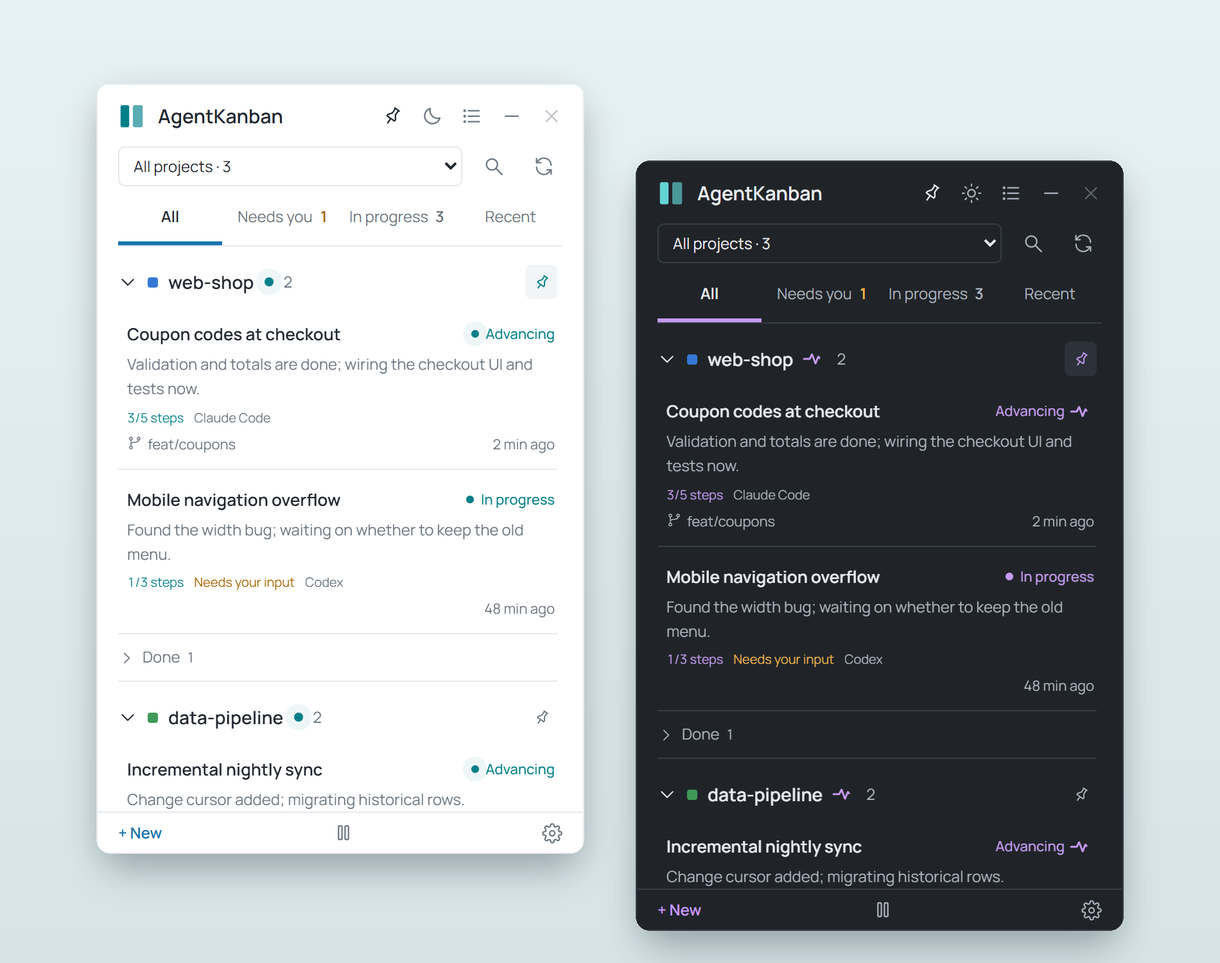
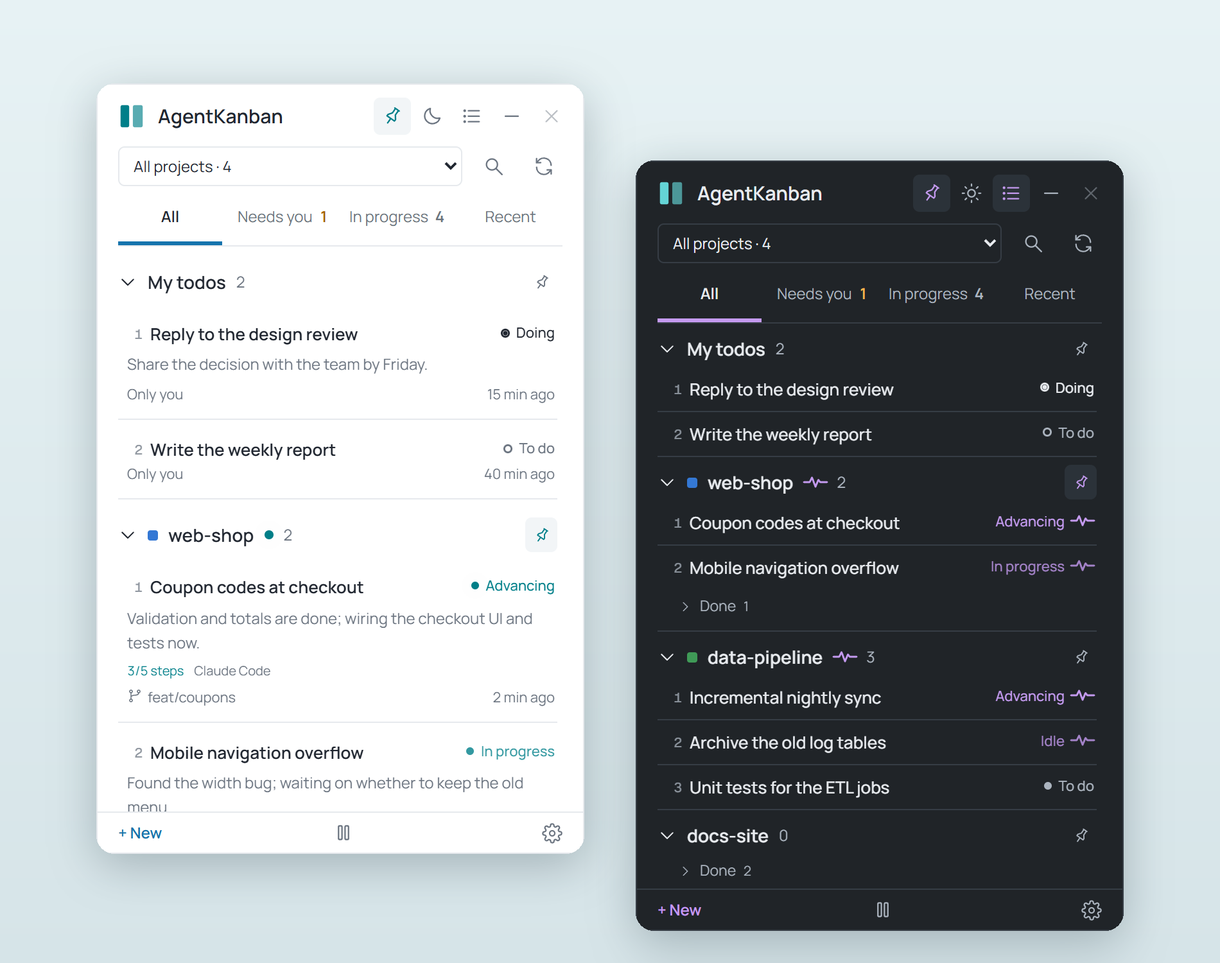
fix: guide, blocked projects and update checks; release 0.7.0
- Blocked projects stay on the board for the user's own personal todos.
- The Agent guide only counts real Agent tasks, fits above an empty board,
  keeps itself after a failed try, and leaves configs it cannot merge to
  manual setup; connect all skips those too.
- The personal group matches search by its shown name.
- update.ps1 waits for locked executables and checks the board executable
  was replaced.
- Bump to 0.7.0, rewrite the release notes and refresh the README images.

diff --git a/src/App.tsx b/src/App.tsx
@@ -83,7 +83,7 @@ function ProjectMenu({ project, color, x, y, onColor, onRename, onArchive, onBlo
       <div className="menu-swatches" role="group" aria-label={t("项目颜色")}>{PROJECT_COLORS.map(value => <button key={value} role="menuitemradio" aria-checked={color === value} aria-label={t(`颜色：${value}`)} className={`swatch label-${value}`} onClick={() => onColor(value)} />)}<button role="menuitemradio" aria-checked={!color} aria-label={t("无颜色")} title={t("无颜色")} className="swatch swatch-none" onClick={() => onColor(null)} /></div>
       {!project.personal && <button role="menuitem" title={t("只改看板上的显示名，不影响 Agent 找到这个项目")} onClick={() => setRenaming(true)}>{t("重命名")}</button>}
       <button role="menuitem" title={t("该项目的任务移到归档，可在归档中心逐条恢复")} onClick={onArchive}>{t("归档项目")}</button>
-      {!project.personal && <button role="menuitem" title={t("之后在该项目中工作的 Agent 不再记录到看板；可在设置 → Agent 接入中取消")} onClick={onBlock}>{t("屏蔽项目")}</button>}
+      {!project.personal && !project.blocked && <button role="menuitem" title={t("之后在该项目中工作的 Agent 不再记录到看板；可在设置 → Agent 接入中取消")} onClick={onBlock}>{t("屏蔽项目")}</button>}
     </>}
   </FloatingMenu>;
 }
@@ -157,7 +157,7 @@ function ProjectSection({ project, preferences, searching, update, now, busy, on
   const waitingIds = useMemo(() => new Set(project.tasks.filter(task => !isTutorialTask(project, task) && isWaiting(task, preferences.stale_after_hours, now)).map(task => task.id)), [project, preferences.stale_after_hours, now]);
   const color = preferences.project_colors[String(project.id)];
   const name = projectLabel(project);
-  const place = project.personal ? t("仅自己可见，Agent 看不到") : project.path;
+  const place = project.personal ? t("仅自己可见，Agent 看不到") : project.blocked ? t("{0}\n已屏蔽 Agent 记录，这里只显示你的个人待办；可在设置 → Agent 接入中取消屏蔽", project.path) : project.path;
   const showArchive = native && project.archived_count > 0;
   const heading = <><Icon name="chevron" className={!collapsed ? 'rotated' : ''} />{color && <span className={`project-color label-${color}`} aria-hidden="true" />}<h2>{name}</h2>{advancingIds.size > 0 && <span className="project-activity status in_progress advancing" title={t("{0} 个任务正在推进", advancingIds.size)}><span className="status-dot" /><ActivityMark /></span>}<span className="project-count">{rows.length}</span></>;
   return <section className={`project ${project.personal ? 'project-personal' : ''}`} aria-label={name}>
@@ -251,7 +251,7 @@ export function App() {
   const openCapture = useCallback(() => {
     if (taskActionBusy.current) return;
     const prefs = preferencesRef.current;
-    const projects = snapshotRef.current.projects.filter(project => !isTutorialProject(project) && !project.personal);
+    const projects = snapshotRef.current.projects.filter(project => !isTutorialProject(project) && !project.personal && !project.blocked);
     const focused = projects.find(project => project.id === prefs.focused_project);
     setCaptureDraft(draft => draft ?? { project_path: focused?.path ?? (projects.length === 1 ? projects[0].path : ''), task_key: `capture:${crypto.randomUUID()}`, title: '', request: '', personal: false, later: false });
     setSelectedTaskId(null); setSettingsOpen(false); setCaptureOpen(true);
@@ -543,7 +543,7 @@ export function App() {
   const searchQuery = searchText.trim().toLowerCase();
   const searching = searchQuery !== '' && !preferences.compact;
   // Shown until an Agent client is set up or the board has real Agent work; the tutorial and personal todos do not count.
-  const hasAgentWork = snapshot.projects.some(project => !project.personal && !isTutorialProject(project));
+  const hasAgentWork = snapshot.projects.some(project => project.tasks.some(task => !task.personal && !isTutorialTask(project, task)));
   const showGuide = native && ready && !searching && !preferences.agent_guide_dismissed && clients !== null
     && (guideHeld || (!clients.some(client => client.mcp === 'ok') && !hasAgentWork));
   const recent = preferences.filter === 'recent';

diff --git a/src/AgentGuide.tsx b/src/AgentGuide.tsx
@@ -1,7 +1,7 @@
 import { useState } from 'react';
 import { t } from './i18n';
 import { Icon } from './Icon';
-import { connectAll, connectAllMessage, pendingClients, type ConnectAllResult } from './Panels';
+import { connectAll, connectedMessage, firstProblem, manualClients, pendingClients, problemMessage, type ConnectAllResult } from './Panels';
 import type { ClientStatus } from './types';
 
 /** First-run card on the board: connects the detected Agent clients or leads to Settings. */
@@ -30,7 +30,11 @@ export function AgentGuide({ clients, onClients, onConnected, onOpenSettings, on
     } finally { setWorking(false); }
   }
 
-  const failed = result?.failed ?? [];
+  // Before connecting, clients whose config needs manual merging count as problems too.
+  const problems = result ?? { failed: [], manual: manualClients(clients) };
+  const problem = firstProblem(problems);
+  // Nothing connected yet: "got it" only clears the message; the card stays for another try.
+  const acknowledge = () => result && result.done.length === 0 ? setResult(null) : onDismiss();
   return <section className="agent-guide" aria-labelledby="agent-guide-title">
     <div className="agent-guide-head">
       <Icon name="logo" />
@@ -38,22 +42,24 @@ export function AgentGuide({ clients, onClients, onConnected, onOpenSettings, on
       <button className="icon-button agent-guide-close" aria-label={t("关闭引导")} title={t("不再显示；之后可在设置 → Agent 接入中接入")} onClick={onDismiss}><Icon name="close" /></button>
     </div>
     {result ? <>
-      {result.done.length > 0 && <p role="status" className="agent-guide-done">{connectAllMessage({ done: result.done, failed: [] })} {t("之后 Agent 开工时，任务会自动出现在这里。")}</p>}
-      {failed.length > 0 && <p role="alert" className="panel-error">{connectAllMessage({ done: [], failed })}</p>}
+      {result.done.length > 0 && <p role="status" className="agent-guide-done">{connectedMessage(result.done)} {t("之后 Agent 开工时，任务会自动出现在这里。")}</p>}
+      {problem && <p role="alert" className="panel-error">{problemMessage(result)}</p>}
     </> : <>
       <p>{t("接入后，Agent 做会改文件的任务时，会自动把目标、步骤和进度记到看板。")}</p>
       {detected.length > 0
         ? <div className="agent-guide-clients" aria-label={t("已检测到的客户端")}><span>{t("已检测到")}</span>{detected.map(client => <span key={client.id} className="agent-guide-chip">{client.name}</span>)}</div>
         : <p>{t("还没检测到支持的客户端。安装 Codex、Claude Code 等之后回到这里，或在设置中手动配置。")}</p>}
+      {pending.length === 0 && problem && <p className="panel-error">{problemMessage(problems)}</p>}
     </>}
     <div className="agent-guide-actions">
       {result ? <>
-        <button className={failed.length ? 'text-button' : 'agent-guide-primary'} onClick={onDismiss}>{t("知道了")}</button>
-        {failed.length > 0 && <button className="agent-guide-primary" onClick={() => onOpenSettings(failed[0].client.id)}>{t("去设置手动配置")}</button>}
-      </> : <>
-        {pending.length > 0 && <button className="agent-guide-primary" disabled={working} onClick={() => void connect()}>{working ? t("正在接入…") : t("一键接入全部")}</button>}
-        {detected.length === 0 && <button className="text-button" onClick={() => onOpenSettings()}>{t("打开接入设置")}</button>}
-      </>}
+        <button className={problem ? 'text-button' : 'agent-guide-primary'} onClick={acknowledge}>{t("知道了")}</button>
+        {problem && <button className="agent-guide-primary" onClick={() => onOpenSettings(problem)}>{t("去设置手动配置")}</button>}
+      </> : pending.length > 0
+        ? <button className="agent-guide-primary" disabled={working} onClick={() => void connect()}>{working ? t("正在接入…") : t("一键接入全部")}</button>
+        : problem
+          ? <button className="agent-guide-primary" onClick={() => onOpenSettings(problem)}>{t("去设置手动配置")}</button>
+          : <button className="text-button" onClick={() => onOpenSettings()}>{t("打开接入设置")}</button>}
     </div>
   </section>;
 }

diff --git a/src/Panels.tsx b/src/Panels.tsx
@@ -80,22 +80,27 @@ export function CopyButton({ text, label = t("复制"), copied = t("已复制"),
 }
 
 export const connected = (client: ClientStatus) => client.mcp === 'ok' && client.rules !== false;
-/** Installed clients that one click would still change. */
-export const pendingClients = (clients: ClientStatus[]) => clients.filter(client => client.detected && !connected(client));
-export interface ConnectAllResult { done: ClientStatus[]; failed: { client: ClientStatus; error: string }[] }
+/** Installed clients that one click would still change. A config the setup cannot parse needs manual merging. */
+export const pendingClients = (clients: ClientStatus[]) => clients.filter(client => client.detected && !connected(client) && client.mcp !== 'unreadable');
+export const manualClients = (clients: ClientStatus[]) => clients.filter(client => client.detected && client.mcp === 'unreadable');
+export interface ConnectAllResult { done: ClientStatus[]; failed: { client: ClientStatus; error: string }[]; manual: ClientStatus[] }
 /** One client after another, so a failure never leaves the others half-written. */
 export async function connectAll(clients: ClientStatus[]): Promise<ConnectAllResult> {
-  const result: ConnectAllResult = { done: [], failed: [] };
+  const result: ConnectAllResult = { done: [], failed: [], manual: manualClients(clients) };
   for (const client of pendingClients(clients)) {
     try { result.done.push(await setupClient(client.id)); }
     catch (e) { result.failed.push({ client, error: String(e) }); }
   }
   return result;
 }
-export const connectAllMessage = ({ done, failed }: ConnectAllResult) => [
-  done.length ? t("已接入 {0}，重启这些客户端后生效。", done.map(client => client.name).join(t("、"))) : '',
+export const connectedMessage = (done: ClientStatus[]) => t("已接入 {0}，重启这些客户端后生效。", done.map(client => client.name).join(t("、")));
+/** Failures and skipped clients: both still need the manual snippet in Settings. */
+export const problemMessage = ({ failed, manual }: Pick<ConnectAllResult, 'failed' | 'manual'>) => [
   ...failed.map(({ client, error }) => t("{0} 接入失败：{1}", client.name, error)),
+  manual.length ? t("{0} 的配置无法自动合并，需在设置中手动配置。", manual.map(client => client.name).join(t("、"))) : '',
 ].filter(Boolean).join(' ');
+/** The client whose manual snippet Settings should open first. */
+export const firstProblem = ({ failed, manual }: Pick<ConnectAllResult, 'failed' | 'manual'>) => failed[0]?.client.id ?? manual[0]?.id;
 const clientState = (client: ClientStatus) => connected(client) ? t("已配置")
   : client.mcp === 'outdated' ? t("配置待更新")
   : client.mcp === 'unreadable' ? t("配置无法解析")
@@ -186,9 +191,9 @@ export function Settings({ preferences, busy, disabled, saveError, initialTab = 
       const result = await connectAll(clients);
       const updated = new Map(result.done.map(client => [client.id, client]));
       setClients(list => list.map(item => updated.get(item.id) ?? item));
-      if (result.done.length) setSetupDone(connectAllMessage({ done: result.done, failed: [] }));
-      if (result.failed.length) setSetupResult({ ok: false, text: connectAllMessage({ done: [], failed: result.failed }) });
-      if (result.failed.length) setManualId(result.failed[0].client.id);
+      if (result.done.length) setSetupDone(connectedMessage(result.done));
+      const problem = firstProblem(result);
+      if (problem) { setSetupResult({ ok: false, text: problemMessage(result) }); setManualId(problem); }
     } finally { setSettingUp(''); }
   }
   async function runBackup() {

diff --git a/src/demo.ts b/src/demo.ts
@@ -1,5 +1,5 @@
 // Browser-only sample board for screenshots and docs: open the preview with ?demo
-// (optional &theme=dark&lang=en&accent=purple&activity=wave). The desktop app never uses it.
+// (optional &theme=dark&lang=en&accent=purple&activity=wave&concise). The desktop app never uses it.
 import { defaults, type Preferences, type Snapshot, type Task } from './types';
 
 const params = new URLSearchParams(location.search);
@@ -23,6 +23,11 @@ const steps = (done: number, total: number) => Array.from({ length: total }, (_,
 export const demoSnapshot: Snapshot = {
   revision: 1,
   projects: [
+    { id: 4, name: '我的待办', path: '', archived_count: 0, personal: true, tasks: [
+      task(4, { title: text('回复设计评审意见', 'Reply to the design review'), status: 'in_progress', personal: true, agent_updated_at: null, updated_at: ago(15),
+        request: text('周五前把结论同步给团队。', 'Share the decision with the team by Friday.') }),
+      task(4, { title: text('整理本周周报', 'Write the weekly report'), status: 'todo', personal: true, agent_updated_at: null, updated_at: ago(40) }),
+    ] },
     { id: 1, name: 'web-shop', path: 'D:\\code\\web-shop', archived_count: 3, tasks: [
       task(1, { title: text('结账页支持优惠码', 'Coupon codes at checkout'), status: 'in_progress', agent: 'Claude Code', agent_updated_at: ago(2), branch: 'feat/coupons', steps: steps(3, 5),
         progress: text('优惠码校验与金额计算已完成，正在补结账页交互和测试。', 'Validation and totals are done; wiring the checkout UI and tests now.') }),
@@ -35,6 +40,8 @@ export const demoSnapshot: Snapshot = {
     { id: 2, name: 'data-pipeline', path: 'D:\\code\\data-pipeline', archived_count: 0, tasks: [
       task(2, { title: text('夜间同步改为增量', 'Incremental nightly sync'), status: 'in_progress', agent: 'Codex', agent_updated_at: ago(6), steps: steps(1, 4),
         progress: text('已加变更游标，正在迁移历史数据。', 'Change cursor added; migrating historical rows.') }),
+      task(2, { title: text('旧日志表归档', 'Archive the old log tables'), status: 'in_progress', agent: 'Claude Code', agent_updated_at: ago(60 * 30), steps: steps(2, 3),
+        progress: text('已导出 2023 年以前的数据，删除旧表前停在确认一步。', 'Rows before 2023 are exported; stopped before dropping the old tables.') }),
       task(2, { title: text('补齐 ETL 单元测试', 'Unit tests for the ETL jobs'), status: 'todo', agent_updated_at: null, updated_at: ago(30),
         progress: text('等待 Agent 接手', 'Waiting for an Agent') }),
     ] },
@@ -53,6 +60,7 @@ export function demoPreferences(): Preferences {
     ...defaults,
     theme: theme === 'dark' || theme === 'light' ? theme : 'light',
     language: english ? 'en' : 'zh',
+    concise: params.has('concise'),
     accent: (accent ?? 'teal') as Preferences['accent'],
     activity_style: (activity ?? 'pulse') as Preferences['activity_style'],
     project_colors: { 1: 'blue', 2: 'green' },

diff --git a/src/display.ts b/src/display.ts
@@ -42,7 +42,7 @@ export const needsAttention = (task: Task) => task.status === 'blocked' || (task
 export const matchesFilter = (task: Task, filter: Filter) => filter === 'all' || filter === 'recent' || (filter === 'attention' ? needsAttention(task) : task.status === filter);
 // Filters saved by v0.3 and earlier: blocked/review now live under attention, todo under all.
 export const normalizeFilter = (value: string): Filter => value === 'blocked' || value === 'review' || value === 'attention' ? 'attention' : value === 'in_progress' || value === 'recent' ? value : 'all';
-export const matchesSearch = (project: Project, task: Task, query: string) => !query || [task.title, project.name, project.path, task.task_key, task.goal, task.request, task.progress, task.user_note].some(value => value.toLowerCase().includes(query));
+export const matchesSearch = (project: Project, task: Task, query: string) => !query || [task.title, project.name, projectLabel(project), project.path, task.task_key, task.goal, task.request, task.progress, task.user_note].some(value => value.toLowerCase().includes(query));
 export const changedAt = (task: Task) => Date.parse(task.updated_at) || 0;
 export const stepProgress = (task: Task) => task.steps.length ? `${task.steps.filter(step => step.status === 'done').length}/${task.steps.length}` : '';
 export const reviewLabels = { none: '', pending: '未验收', accepted: '已验收', changes_requested: '需修改' };

diff --git a/src/types.ts b/src/types.ts
@@ -25,7 +25,9 @@ export interface ArchiveQuery { query?: string; project_id?: number; limit?: num
 export interface ArchivePage { items: ArchivedTask[]; next_offset: number | null }
 export interface BlockedProject { id: number; name: string; path: string }
 /** `personal` marks the built-in group for personal todos without a folder. */
-export interface Project { id: number; name: string; path: string; tasks: Task[]; archived_count: number; personal?: boolean }
+export interface Project { id: number; name: string; path: string; tasks: Task[]; archived_count: number; personal?: boolean;
+  /** Blocked for Agents; on the board only for the user's personal todos in it. */
+  blocked?: boolean }
 export const isTutorialTask = (project: Pick<Project, 'name'>, task: Pick<Task, 'agent' | 'task_key'>) => project.name === '新手教程'
   && task.agent === '教学示例'
   && (task.task_key === 'tutorial:follow-progress' || task.task_key === 'tutorial:review-delivery');

diff --git a/src/styles.css b/src/styles.css
@@ -346,6 +346,8 @@ details summary { font-size: 11px; color: var(--muted); cursor: pointer; padding
 .agent-guide p { margin: 6px 0 0; color: var(--muted); font-size: 12px; line-height: 1.7; }
 .agent-guide .agent-guide-done { color: var(--green); }
 .agent-guide .panel-error { color: var(--amber); }
+/* With the card above it, the empty board message sits right below instead of filling a whole screen. */
+.agent-guide ~ .empty { min-height: 0; padding-top: 28px; }
 .agent-guide-clients { display: flex; flex-wrap: wrap; align-items: center; gap: 6px; margin-top: 9px; color: var(--muted); font-size: 11px; }
 .agent-guide-chip { padding: 1px 8px; border: 1px solid var(--line); border-radius: 999px; background: var(--surface); color: var(--text); font-weight: 600; line-height: 18px; }
 .agent-guide-actions { display: flex; align-items: center; justify-content: flex-end; gap: 14px; margin-top: 11px; }

diff --git a/src/i18n.ts b/src/i18n.ts
@@ -529,6 +529,8 @@ const en: Record<string, string> = {
   '打开接入设置': 'Open Agent settings',
   '已接入 {0}，重启这些客户端后生效。': 'Connected {0}. Restart these clients to load it.',
   '{0} 接入失败：{1}': '{0} failed: {1}',
+  '{0} 的配置无法自动合并，需在设置中手动配置。': 'The {0} config cannot be merged automatically; set it up by hand in Settings.',
+  '{0}\n已屏蔽 Agent 记录，这里只显示你的个人待办；可在设置 → Agent 接入中取消屏蔽': '{0}\nBlocked for Agents: only your personal todos show here. Unblock it in Settings → Agents',
   '接入本机已检测到、尚未配置好的客户端：{0}': 'Connect the detected clients not yet set up: {0}',
   '接入全部（{0}）': 'Connect all ({0})',
   '、': ', ',

diff --git a/crates/kanban-core/src/lib.rs b/crates/kanban-core/src/lib.rs
@@ -192,6 +192,9 @@ pub struct ProjectBoard {
     /// The built-in group for personal todos that belong to no directory.
     #[serde(default)]
     pub personal: bool,
+    /// Blocked for Agents. It stays on the board only for the user's personal todos.
+    #[serde(default)]
+    pub blocked: bool,
 }
 
 #[derive(Debug, Clone, Serialize, Deserialize)]
@@ -646,14 +649,18 @@ impl Database {
         )?;
         let mut projects = Vec::new();
         {
+            // Blocking hides a project's Agent work, never the user's own todos in it.
             let mut statement = tx.prepare(
-                "SELECT id,name,path,
-                   (SELECT COUNT(*) FROM tasks a WHERE a.project_id=p.id AND a.archived=1),
-                   identity=?1
+                "WITH blocked(identity) AS (SELECT value FROM json_each(
+                   COALESCE((SELECT value FROM settings WHERE key='blocked_projects'),'[]')))
+                 SELECT id,name,path,
+                   CASE WHEN p.identity IN (SELECT identity FROM blocked) THEN 0
+                     ELSE (SELECT COUNT(*) FROM tasks a WHERE a.project_id=p.id AND a.archived=1) END,
+                   identity=?1,
+                   p.identity IN (SELECT identity FROM blocked)
                  FROM projects p
-                 WHERE EXISTS (SELECT 1 FROM tasks t WHERE t.project_id=p.id AND t.archived=0)
-                   AND p.identity NOT IN (SELECT value FROM json_each(
-                     COALESCE((SELECT value FROM settings WHERE key='blocked_projects'),'[]')))
+                 WHERE EXISTS (SELECT 1 FROM tasks t WHERE t.project_id=p.id AND t.archived=0
+                   AND (t.owner='user' OR p.identity NOT IN (SELECT identity FROM blocked)))
                  ORDER BY name COLLATE NOCASE,id",
             )?;
             let rows = statement.query_map([PERSONAL_IDENTITY], |row| {
@@ -664,6 +671,7 @@ impl Database {
                     tasks: Vec::new(),
                     archived_count: row.get(3)?,
                     personal: row.get(4)?,
+                    blocked: row.get(5)?,
                 })
             })?;
             for row in rows {
@@ -672,13 +680,13 @@ impl Database {
         }
         {
             let mut statement = tx.prepare(
-                "SELECT * FROM tasks WHERE project_id=?1 AND archived=0
+                "SELECT * FROM tasks WHERE project_id=?1 AND archived=0 AND (?2=0 OR owner='user')
                  ORDER BY CASE status WHEN 'in_progress' THEN 0 WHEN 'blocked' THEN 1 WHEN 'todo' THEN 2 ELSE 3 END,
                           updated_at DESC,id DESC"
             )?;
             for project in &mut projects {
                 project.tasks = statement
-                    .query_map([project.id], read_task)?
+                    .query_map(params![project.id, project.blocked], read_task)?
                     .collect::<std::result::Result<_, _>>()?;
             }
         }

diff --git a/crates/kanban-core/tests/personal.rs b/crates/kanban-core/tests/personal.rs
@@ -201,3 +201,44 @@ fn a_personal_todo_can_wait_until_the_user_starts_it() {
         .unwrap();
     assert_eq!(agent.status, Status::Todo);
 }
+
+#[test]
+fn blocking_a_project_hides_its_agent_work_but_not_the_users_todos() {
+    let (_root, db, project) = setup();
+    let path = project.to_string_lossy().to_string();
+    db.upsert_from_json(json!({
+        "project_path": project, "task_key": "auto:work", "title": "work", "status": "in_progress", "progress": "p"
+    }))
+    .unwrap();
+    let archived = capture(&db, &path, "me:old", true);
+    db.archive_by_id(kanban_core::ArchiveById {
+        id: archived.id,
+        expected_updated_at: archived.updated_at,
+    })
+    .unwrap();
+    let project_id = db.board().unwrap().projects[0].id;
+    db.set_project_blocked(project_id, true).unwrap();
+    // Only Agent work: the project leaves the board as before.
+    assert!(db.board().unwrap().projects.is_empty());
+
+    capture(&db, &path, "me:mine", true);
+    let board = db.board().unwrap();
+    assert_eq!(board.projects.len(), 1);
+    let shown = &board.projects[0];
+    assert!(shown.blocked);
+    assert_eq!(shown.archived_count, 0);
+    assert_eq!(
+        shown
+            .tasks
+            .iter()
+            .map(|task| task.task_key.as_str())
+            .collect::<Vec<_>>(),
+        ["me:mine"]
+    );
+
+    db.set_project_blocked(project_id, false).unwrap();
+    let board = db.board().unwrap();
+    assert!(!board.projects[0].blocked);
+    assert_eq!(board.projects[0].tasks.len(), 2);
+    assert_eq!(board.projects[0].archived_count, 1);
+}

diff --git a/docs/RELEASE_NOTES.md b/docs/RELEASE_NOTES.md
@@ -1,12 +1,10 @@
-# AgentKanban 0.6.0
+# AgentKanban 0.7.0
 
-- 完成即变灰：Agent 报告完成后任务直接变灰并标记「未验收」，不再计入「等你处理」，也不弹通知；验收变为可选。右键任务可「一键验收」或「直接归档」，操作后几秒内可撤销。
-- 项目操作：右键项目标题可设置颜色标签、重命名（只改显示名）、归档整个项目，或屏蔽项目——屏蔽后该项目从看板隐藏，之后在其中工作的 Agent 调用看板工具会被告知已屏蔽、不读不写；可在设置 → Agent 接入中取消。每个项目底部新增「已归档」分组，可就地恢复。
-- Agent 推进提示：进行中且最近有上报的任务显示「推进中」动效，项目标题和窄条同步标记。提供呼吸光点、旋转光环、跳动三点、心电波形、文字流光、卡片左侧流光、卡片呼吸七种样式和 10 / 30 / 60 分钟判定时长。
-- 外观：可选跟随系统 / 浅色 / 深色主题和 8 种主题色；新增中文 / English 界面切换，托盘菜单和系统通知一并切换。
-- 使用：看板支持键盘操作（↑↓ 选择、Enter 打开、A 验收、E 归档、/ 搜索）；新增刷新按钮、工作摘要（今天 / 近 7 天 / 近 30 天，可复制为 Markdown）、可选的「Agent 完成任务时通知」和项目排序（最近更新 / 名称）。新建任务可从已有项目中选择，或通过「浏览…」打开文件夹选择窗口。
-- 整理：自动归档同时覆盖未验收的已完成任务，每个项目最多保留最近 5 条已完成任务。
-- 安装程序：采用应用配色和图标，按 Windows 语言显示中文或英文；手动输入的安装目录会自动补上 AgentKanban 子文件夹，卸载时不再弹出语言选择。
-- 修复：双击标题栏后窗口无法拖动；关闭设置后「设置」按钮残留焦点框。
+- 个人待办：新建时勾选「仅自己」，记下自己要做的事。可以选项目目录，也可以不选，不选时放进置顶的「我的待办」分组。分「待办 / 我在做 / 已完成」三种状态，右键或在详情里切换；「我在做」计入「进行中」。Agent 通过 MCP 完全看不到、也改不动这些待办，通知和工作摘要也不包含它们。
+- 接入你的 Agent：首次打开时看板顶部显示引导卡片，列出本机检测到的客户端，一键全部接入；设置 → Agent 接入新增「接入全部」。配置无法自动合并的客户端会提示手动配置并直达对应片段。接入成功或看板出现真实 Agent 任务后卡片不再显示，也可以直接关闭。
+- 待继续：进行中的任务超过设定时间（默认 24 小时）没有 Agent 上报时显示「待继续」，保持原来的颜色和静止动效，只在「全部」中显示，不计入「进行中」。设置里的阈值改名为「多久没上报算「待继续」」。
+- 看板整理：项目下的任务左侧带序号；「已归档」收进「已完成」里，显示为一行浅色文字，不再和项目折叠栏混在一起；进行中但暂时没有上报的任务显示所选动效的静止状态。
+- 动效：明暗切换时整页淡入淡出；窗口置顶按钮开启时高亮，点击有按下 / 拔起动效；所有面板右上角的「返回」改为 × 图标，悬停时转动。
+- 修复：反复切换明暗后部分文字和按钮停在旧主题颜色；用鼠标点过按钮后，按 Shift（如切换输入法）会出现焦点框。
 
-MCP 仍是三个工具，数据库 schema 保持 5，从 0.5 升级无需迁移。升级后请重新「一键接入」，让客户端加载新的同步规则（新增屏蔽项目的处理说明）。
+数据库 schema 升到 6，首次启动自动迁移，迁移后旧版本无法再打开这份数据。MCP 仍是三个工具，同步规则没有变化，无需重新接入；升级后请重启正在运行的 Agent 会话，让它们加载新的 MCP 程序。

diff --git a/docs/USAGE.md b/docs/USAGE.md
@@ -30,7 +30,7 @@
 - **任务详情与反馈**：查看完整需求、进展、计划步骤、Agent 标识、下一步、所需输入、交付物、项目路径和分支，并可复制。卡片显示步骤完成数（如「2/5 步」）。「Agent 上报记录」按字段展示最近 30 次实质上报；新 MCP 保留实际传入字段，早期记录可能经过规范化。你可以补充一条最新意见供 Agent 继续时读取；该字段不是聊天记录，提交新内容会替换旧意见，验收后仍可查看。开工说明也可展开手动复制。
 - **暂停记录**：点底栏「暂停记录」后，下一次工具调用会收到「用户已暂停」，不读写任务，Agent 继续工作且不反复重试或轮询。点击恢复后，在下一个正常里程碑或新任务时重新尝试记录；不会主动唤醒 Agent，也不回补暂停期间的逐条操作。暂停时看板保留最后一次上报的状态。
 - **归档与恢复**：在任务详情中归档不需要的任务（二次确认），或右键任务选「直接归档」；右键项目标题可「归档项目」，二次确认后把该项目在看板上的任务一次归档。
-- **屏蔽项目**：右键项目标题选「屏蔽项目」并确认后，该项目从看板隐藏，之后在该项目中工作的 Agent 调用看板工具会被告知已屏蔽、不读不写。已有任务保留；在设置 → Agent 接入 →「屏蔽的项目」中可取消屏蔽。展开项目的「已完成」后，末尾的「已归档 N · 查看」可就地查看并恢复本项目的归档任务（项目没有已完成任务时直接显示这一行）。设置 → 桌面 → 整理中的归档中心可搜索、分页查看并恢复原任务，保留验收状态、人工意见和上报记录，不计为 Agent 更新；已验收的恢复项仍在原项目的「已完成」分组中。Agent 也可用 `task_archive` 恢复。
+- **屏蔽项目**：右键项目标题选「屏蔽项目」并确认后，该项目从看板隐藏，之后在该项目中工作的 Agent 调用看板工具会被告知已屏蔽、不读不写。已有任务保留；项目里你自己的个人待办照常显示，此时项目中只显示这些待办。在设置 → Agent 接入 →「屏蔽的项目」中可取消屏蔽。展开项目的「已完成」后，末尾的「已归档 N · 查看」可就地查看并恢复本项目的归档任务（项目没有已完成任务时直接显示这一行）。设置 → 桌面 → 整理中的归档中心可搜索、分页查看并恢复原任务，保留验收状态、人工意见和上报记录，不计为 Agent 更新；已验收的恢复项仍在原项目的「已完成」分组中。Agent 也可用 `task_archive` 恢复。
 - **人工验收（可选）**：Agent 报告完成后，任务直接变灰并标记「未验收」，不再计入「等你处理」，也不弹通知。右键任务可「一键验收」；也可在详情中通过验收，或填写修改意见后退回待办；退回的任务会重新出现在 Agent 默认查询结果中。Agent 若在你验收前重新打开任务，卡片显示「已撤回验收」，下次完成后重新等待验收。旧版已完成任务保留原状态，不强制重新验收。
 - **待继续与久未更新**：进行中的任务超过设定时间（默认 24 小时）没有 Agent 实质上报，显示为灰色的「待继续」，不计入「进行中」页签和计数，只在「全部」里出现，悬停可看最后上报时间；受阻任务超时则显示「较久未更新」。时长在设置里可关闭，或改为 1、4、8、24、48、168 小时。这只是显示，任务状态不变，Agent 再次上报后自动恢复；人工补充或验收不会冒充 Agent 的新上报。
 - **全局快捷键**：`Ctrl+Alt+K` 显示/隐藏浮窗，`Ctrl+Alt+N` 打开快捷新建；设置中可一并关闭。快捷键仅在 AgentKanban 运行时有效；退出后需要重新启动应用。
